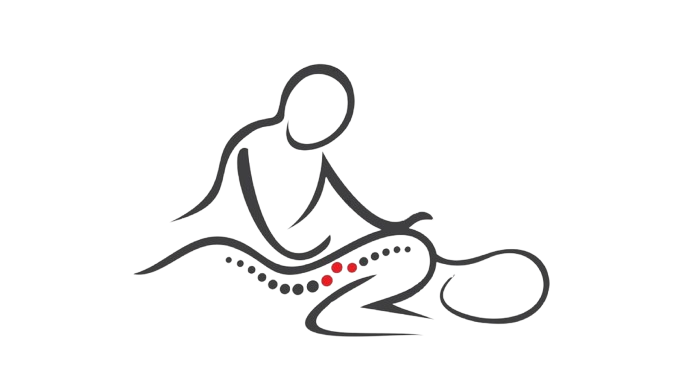
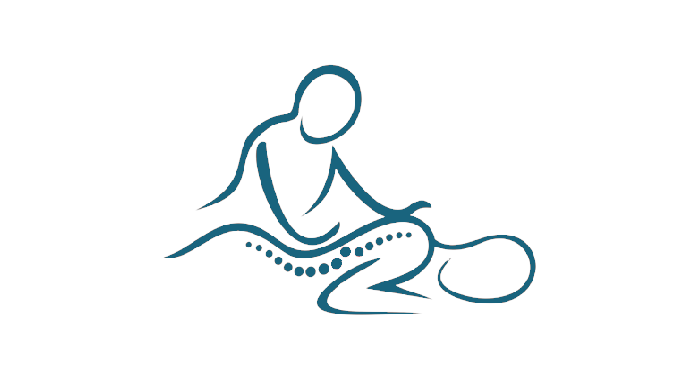
Info and stlye changes on select

Changed region(s): [[0.1842, 0.1507, 0.8289, 0.9342]]

diff --git a/client/src/pages/Portfolio.js b/client/src/pages/Portfolio.js
@@ -1,9 +1,25 @@
-import React from "react";
+import React, { useState } from "react";
 import chiropractic from "../images/new-imgs/Chiro-removebg-preview.png";
-import orthotic from "../images/new-imgs/orthotics-removebg-preview.png";
+import orthotic from "../images/new-imgs/orthotics-removebg-preview1.png";
 import sportsRem from "../images/new-imgs/SportsMassage-removebg-preview.png";
+import TherapyInfo from "../components/TherapyInfo";
 
 function Portfolio() {
+  const [selectedTherapy, setSelectedTherapy] = useState("chiropractic");
+
+  const handleTherapySelect = (therapyType) => {
+    setSelectedTherapy(therapyType);
+  };
+
+  const therapyText = [
+    {
+      title: "Chiropractic",
+      text: "Chiractic......................",
+    },
+    { title: "Orthotic", text: "Orthotic......................." },
+    { title: "Sports Remedial", text: "Sports remedial...................." },
+  ];
+
   return (
     <section>
       <div className="container my-5">
@@ -13,47 +29,53 @@ function Portfolio() {
           </h2>
         </div>
         <div className="row">
-          <div className="col">
-            <div style={{ backgroundColor: "#F0EFEF" }}>
-              <img className="w-100" src={chiropractic} alt="Chiropractic" />
-            </div>
-            <h3
-              className="text-center m-0 py-3"
-              style={{
-                backgroundColor: "#F0EFEF",
-                color: "#F0EFEF",
-              }}
-            >
-              Chiropractic
-            </h3>
-          </div>
-          <div className="col">
+          <TherapyInfo
+            therapyImage={chiropractic}
+            therapyType="chiropractic"
+            selectedTherapy={selectedTherapy}
+            onSelectTherapy={handleTherapySelect}
+          />
+
+          <TherapyInfo
+            therapyImage={orthotic}
+            therapyType="orthotic"
+            selectedTherapy={selectedTherapy}
+            onSelectTherapy={handleTherapySelect}
+          />
+
+          <TherapyInfo
+            therapyImage={sportsRem}
+            therapyType="sportsRemedial"
+            selectedTherapy={selectedTherapy}
+            onSelectTherapy={handleTherapySelect}
+          />
+
+          {/* <div className="col">
             <div>
               <img className="w-100" src={orthotic} alt="Orthotics" />
             </div>
             <h3 className="text-center m-0 py-3">Chiropractic</h3>
-          </div>
-          <div className="col">
+          </div> */}
+          {/* <div className="col">
             <div>
               <img className="w-100" src={sportsRem} alt="Sports Massage" />
             </div>
             <h3 className="text-center m-0 py-3">Chiropractic</h3>
-          </div>
+          </div> */}
         </div>
         <div
           className="row m-0 fs-3 p-5"
           style={{ backgroundColor: "#F0EFEF" }}
         >
-          <h3 className="m-0 py-3">Chiropractic</h3>
+          <h3 className="m-0 py-3">
+            {selectedTherapy === "chiropractic" && therapyText[0].title}
+            {selectedTherapy === "orthotic" && therapyText[1].title}
+            {selectedTherapy === "sportsRemedial" && therapyText[2].title}
+          </h3>
           <p>
-            Chiropractors are best known for manual treatments such as spinal
-            manipulation, where they use their hands to free stiff or restricted
-            joints, or mobilisation, which is the gradual moving of joints. But
-            they may also use other recommended treatments such as certain types
-            of acupuncture, electrotherapy, stretching exercises and
-            rehabilitation, all of which form part of a chiropractor’s package
-            of care. Your chiropractor may also offer lifestyle advice to help
-            recovery and to prevent repeated episodes of back pain.
+            {selectedTherapy === "chiropractic" && therapyText[0].text}
+            {selectedTherapy === "orthotic" && therapyText[1].text}
+            {selectedTherapy === "sportsRemedial" && therapyText[2].text}
           </p>
         </div>
       </div>

diff --git a/client/src/components/TherapyInfo.js b/client/src/components/TherapyInfo.js
@@ -1,0 +1,30 @@
+import React from "react";
+
+function TherapyInfo({
+  therapyImage,
+  therapyType,
+  selectedTherapy,
+  onSelectTherapy,
+}) {
+  const isSelected = selectedTherapy === therapyType;
+
+  const buttonStyle = {
+    cursor: "pointer",
+    padding: "10px",
+    backgroundColor: isSelected ? "#F0EFEF" : "#f9f7f7",
+    color: isSelected ? "#F0EFEF" : "#19647e",
+  };
+
+  return (
+    <div className="col" onClick={() => onSelectTherapy(therapyType)}>
+      <div style={buttonStyle}>
+        <img className="w-100" src={therapyImage} alt="Chiropractic" />
+      </div>
+      <h3 className="text-center m-0 py-3" style={buttonStyle}>
+        Chiropractic
+      </h3>
+    </div>
+  );
+}
+
+export default TherapyInfo;
